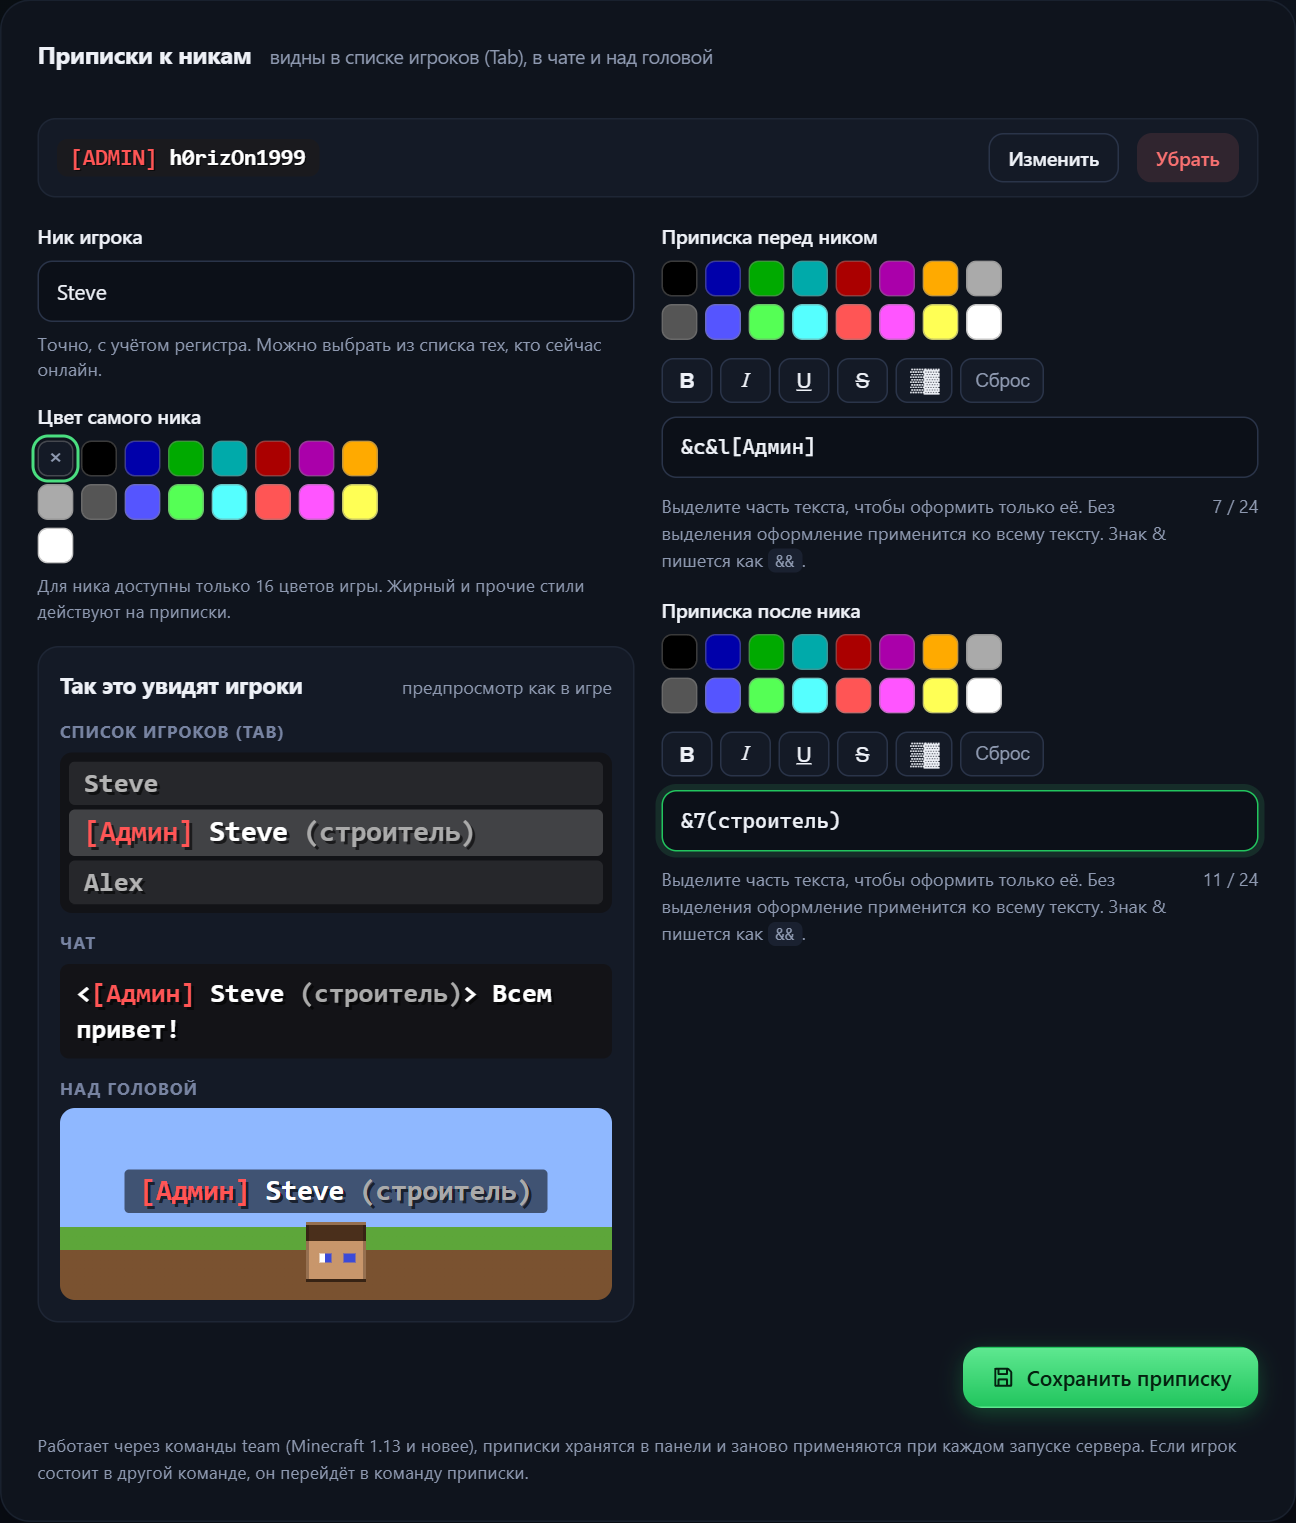
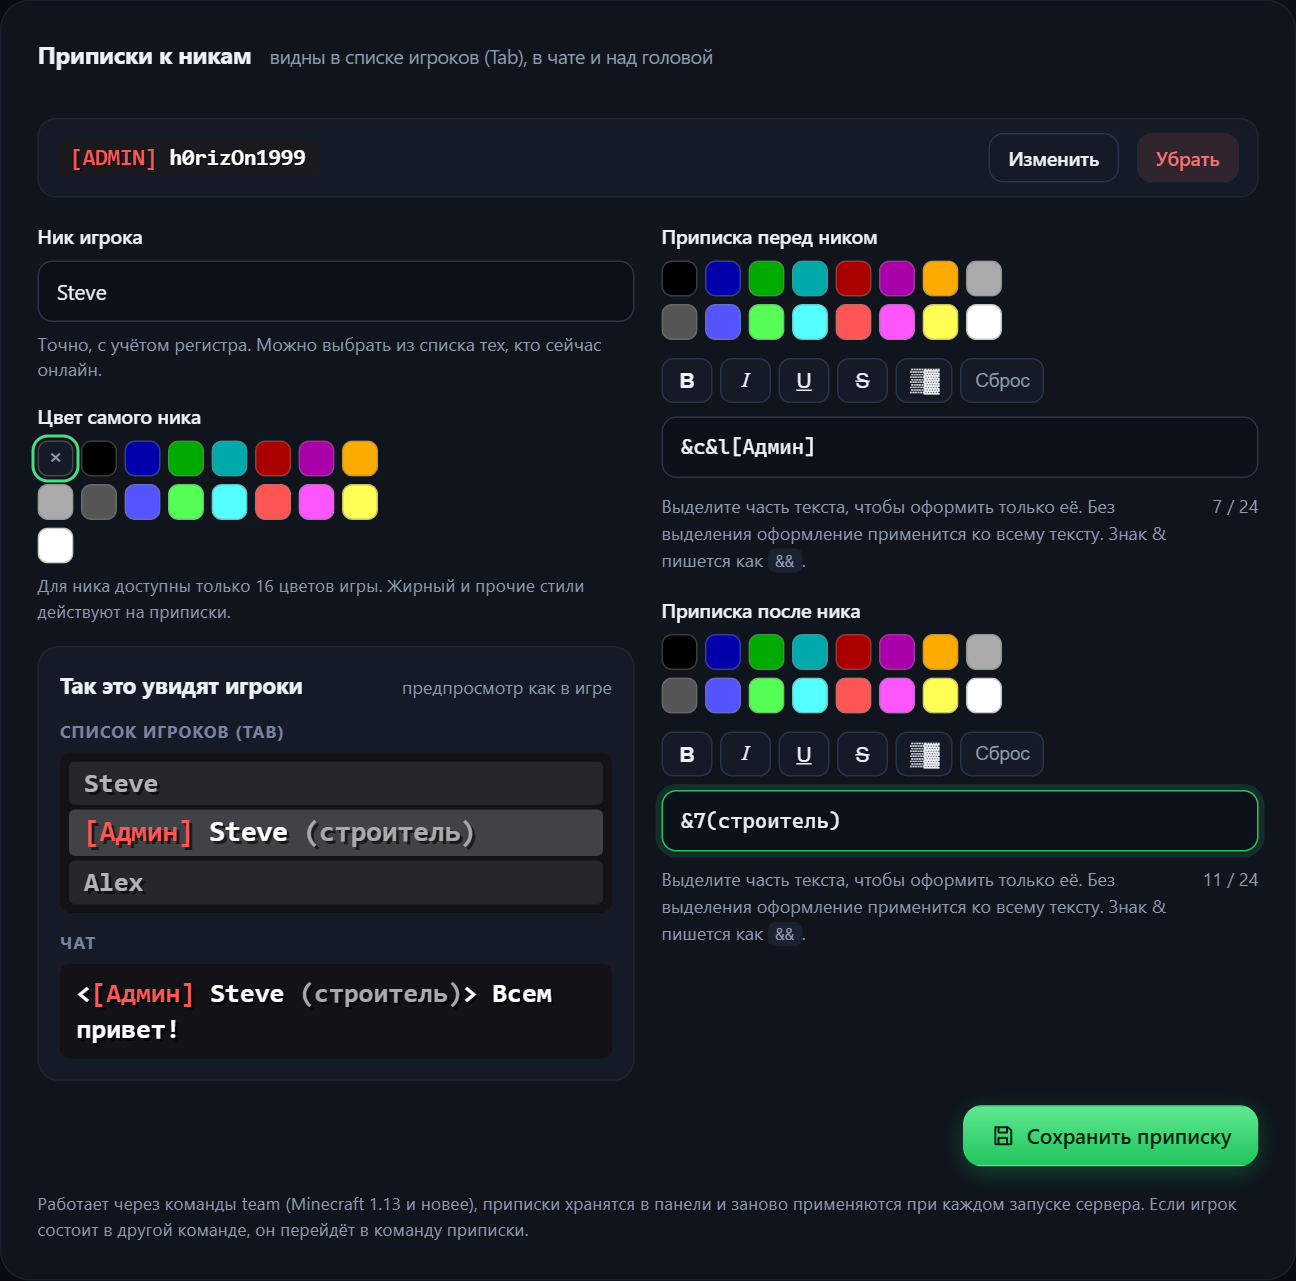
Name tags: drop the "above the head" scene from the preview
Keep the Tab list and chat scenes; update the screenshot and README captions.

diff --git a/public/server.js b/public/server.js
@@ -395,7 +395,7 @@ const TAG_EMPTY = { nick: '', prefix: '', suffix: '', color: '' };
 const tagOf = (tags, n) => tags?.[n] || tags?.[Object.keys(tags || {}).find(k => k.toLowerCase() === String(n).toLowerCase())];
 const TagPreview = ({ nick, tag }) => html`<span class="mc-box mini mcreal">${tag.prefix ? html`<${FmtText} real src=${tag.prefix} /> ` : ''}<span style=${`color:var(--mc${tag.color || 'f'})`}>${nick || 'Ник'}</span>${tag.suffix ? html` <${FmtText} real src=${tag.suffix} />` : ''}</span>`;
 
-/** Крупный предпросмотр приписки как в игре: список игроков (Tab), чат и ник над головой. */
+/** Крупный предпросмотр приписки как в игре: список игроков (Tab) и чат. */
 function TagScene({ nick, tag }) {
   const line = html`<span class="tsl mcreal">${tag.prefix ? html`<${FmtText} real src=${tag.prefix} /> ` : ''}<span style=${`color:var(--mc${tag.color || 'f'})`}>${nick || 'Ник'}</span>${tag.suffix ? html` <${FmtText} real src=${tag.suffix} />` : ''}</span>`;
   return html`<div class="tscene">
@@ -404,8 +404,6 @@ function TagScene({ nick, tag }) {
       <div class="ts-tab"><div class="r dim">Steve</div><div class="r me">${line}</div><div class="r dim">Alex</div></div></div>
     <div class="ts-block"><span class="ts-lab">Чат</span>
       <div class="ts-chat"><span class="mcreal">${'<'}</span>${line}<span class="mcreal">${'>'} Всем привет!</span></div></div>
-    <div class="ts-block"><span class="ts-lab">Над головой</span>
-      <div class="ts-world"><div class="ts-tag">${line}</div><div class="ts-body"></div></div></div>
   </div>`;
 }
 

diff --git a/public/style.css b/public/style.css
@@ -487,11 +487,6 @@ tr.click:hover td { background: var(--panel2); }
 .ts-tab .r.me { background: rgba(255, 255, 255, .2); }
 .ts-chat { background: rgba(18, 18, 22, .92); border-radius: 6px; padding: 7px 11px; font: 700 18px/1.35 "Consolas", "Menlo", monospace; color: #fff; text-shadow: 2px 2px 0 rgba(0, 0, 0, .6); word-break: break-word; }
 .ts-chat .tsl { font-size: 18px; }
-.ts-world { position: relative; height: 128px; border-radius: 10px; overflow: hidden; display: flex; flex-direction: column; align-items: center; justify-content: flex-end; padding-bottom: 12px; gap: 6px;
-  background: linear-gradient(#8fb8ff 0 62%, #5da63a 62% 74%, #7a5230 74%); }
-.ts-tag { position: relative; z-index: 1; background: rgba(0, 0, 0, .55); padding: 2px 10px; border-radius: 3px; max-width: 94%; text-align: center; }
-.ts-body { width: 40px; height: 40px; position: relative; flex: none; background: linear-gradient(#4a2f1b 0 30%, #c8966b 30%); border: 2px solid rgba(0, 0, 0, .25); }
-.ts-body::after { content: ""; position: absolute; left: 7px; top: 19px; width: 8px; height: 6px; background: linear-gradient(90deg, #fff 50%, #3b4ad8 50%); box-shadow: 16px 0 0 #3b4ad8; }
 :root[data-mode="light"] .ts-top b { color: var(--text); }
 
 /* ---------- Темы: тёмные и светлые отдельными группами ---------- */

diff --git a/README.md b/README.md
@@ -134,7 +134,7 @@ docker compose up -d --build
     <td width="50%"><img src="docs/discord.png" alt="Табло в Discord"><br><sub><b>Табло в Discord.</b> Частота обновления, уведомления о событиях, прокси и макет сообщения</sub></td>
   </tr>
   <tr>
-    <td colspan="2" align="center"><img src="docs/tags.png" alt="Приписки к никам" width="620"><br><sub><b>Приписки к никам.</b> Крупный предпросмотр как в игре: список игроков (Tab), чат и ник над головой</sub></td>
+    <td colspan="2" align="center"><img src="docs/tags.png" alt="Приписки к никам" width="620"><br><sub><b>Приписки к никам.</b> Крупный предпросмотр как в игре: список игроков (Tab) и чат</sub></td>
   </tr>
 </table>
 

diff --git a/README.en.md b/README.en.md
@@ -130,7 +130,7 @@ Example: `PANEL_PORT=9090 ADMIN_PASSWORD=MySecret123 ./install.sh`
     <td width="50%"><img src="docs/discord.png" alt="Discord status board"><br><sub><b>Status board.</b> Refresh rate, event notifications, proxy and a preview of the message</sub></td>
   </tr>
   <tr>
-    <td colspan="2" align="center"><img src="docs/tags.png" alt="Player name tags" width="620"><br><sub><b>Name tags.</b> A large in-game preview: the player list (Tab), chat and the name above the head</sub></td>
+    <td colspan="2" align="center"><img src="docs/tags.png" alt="Player name tags" width="620"><br><sub><b>Name tags.</b> A large in-game preview: the player list (Tab) and chat</sub></td>
   </tr>
 </table>
 
